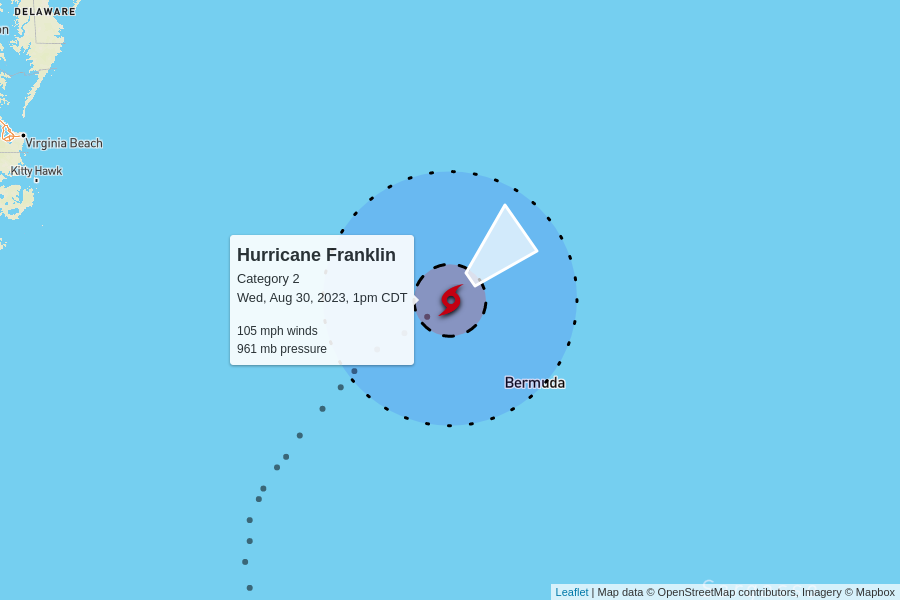
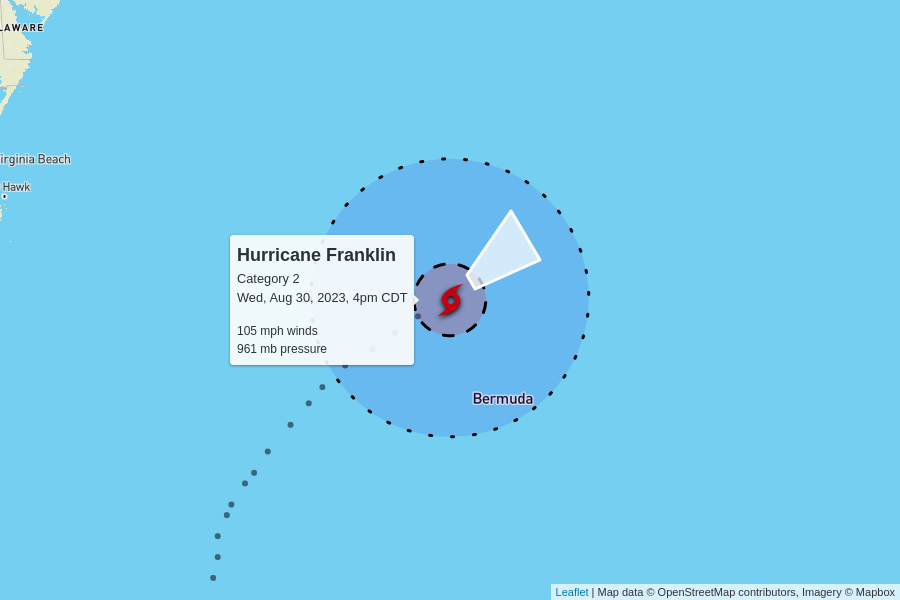
automatic update

diff --git a/docs/index.html b/docs/index.html
@@ -100,7 +100,7 @@
         <td colspan="6" class="storm category-2" >
           <h2>
             Hurricane Franklin - Category 2
-            <p class="updated">last updated <span data-time>2023-08-30T18:00:00.000Z</span></p>
+            <p class="updated">last updated <span data-time>2023-08-30T21:00:00.000Z</span></p>
           </h2>
         </td>
       </tr>
@@ -120,7 +120,7 @@
         <td>
           13 mph to the northeast
           <br/>
-          <span style="display: inline-block; font-size: 1.5em; transform: rotate(50deg);">↑</span>
+          <span style="display: inline-block; font-size: 1.5em; transform: rotate(55deg);">↑</span>
         </td>
         <td><a href="https://raw.githubusercontent.com/mgwalker/atlantic-hurricanes/main/data/csv/AL082023.csv">AL082023.csv</a></td>
         <td><a href="https://www.nhc.noaa.gov/archive/2023/FRANKLIN.shtml?">NHC advisories</a></td>
@@ -141,10 +141,10 @@
       
 
       <tr>
-        <td colspan="6" class="storm category-1" >
+        <td colspan="6" class="storm category-0" >
           <h2>
-            Hurricane Idalia - Category 1
-            <p class="updated">last updated <span data-time>2023-08-30T18:00:00.000Z</span></p>
+            Tropical Storm Idalia
+            <p class="updated">last updated <span data-time>2023-08-30T21:00:00.000Z</span></p>
           </h2>
         </td>
       </tr>
@@ -159,10 +159,10 @@
       </tr>
       <tr>
         <td class="spacer"></td>
-        <td>75 mph</td>
-        <td>981 mb</td>
+        <td>70 mph</td>
+        <td>984 mb</td>
         <td>
-          20 mph to the northeast
+          21 mph to the northeast
           <br/>
           <span style="display: inline-block; font-size: 1.5em; transform: rotate(35deg);">↑</span>
         </td>
@@ -188,7 +188,7 @@
         <td colspan="6" class="storm category-0" >
           <h2>
             Tropical Depression Eleven
-            <p class="updated">last updated <span data-time>2023-08-30T15:00:00.000Z</span></p>
+            <p class="updated">last updated <span data-time>2023-08-30T21:00:00.000Z</span></p>
           </h2>
         </td>
       </tr>
